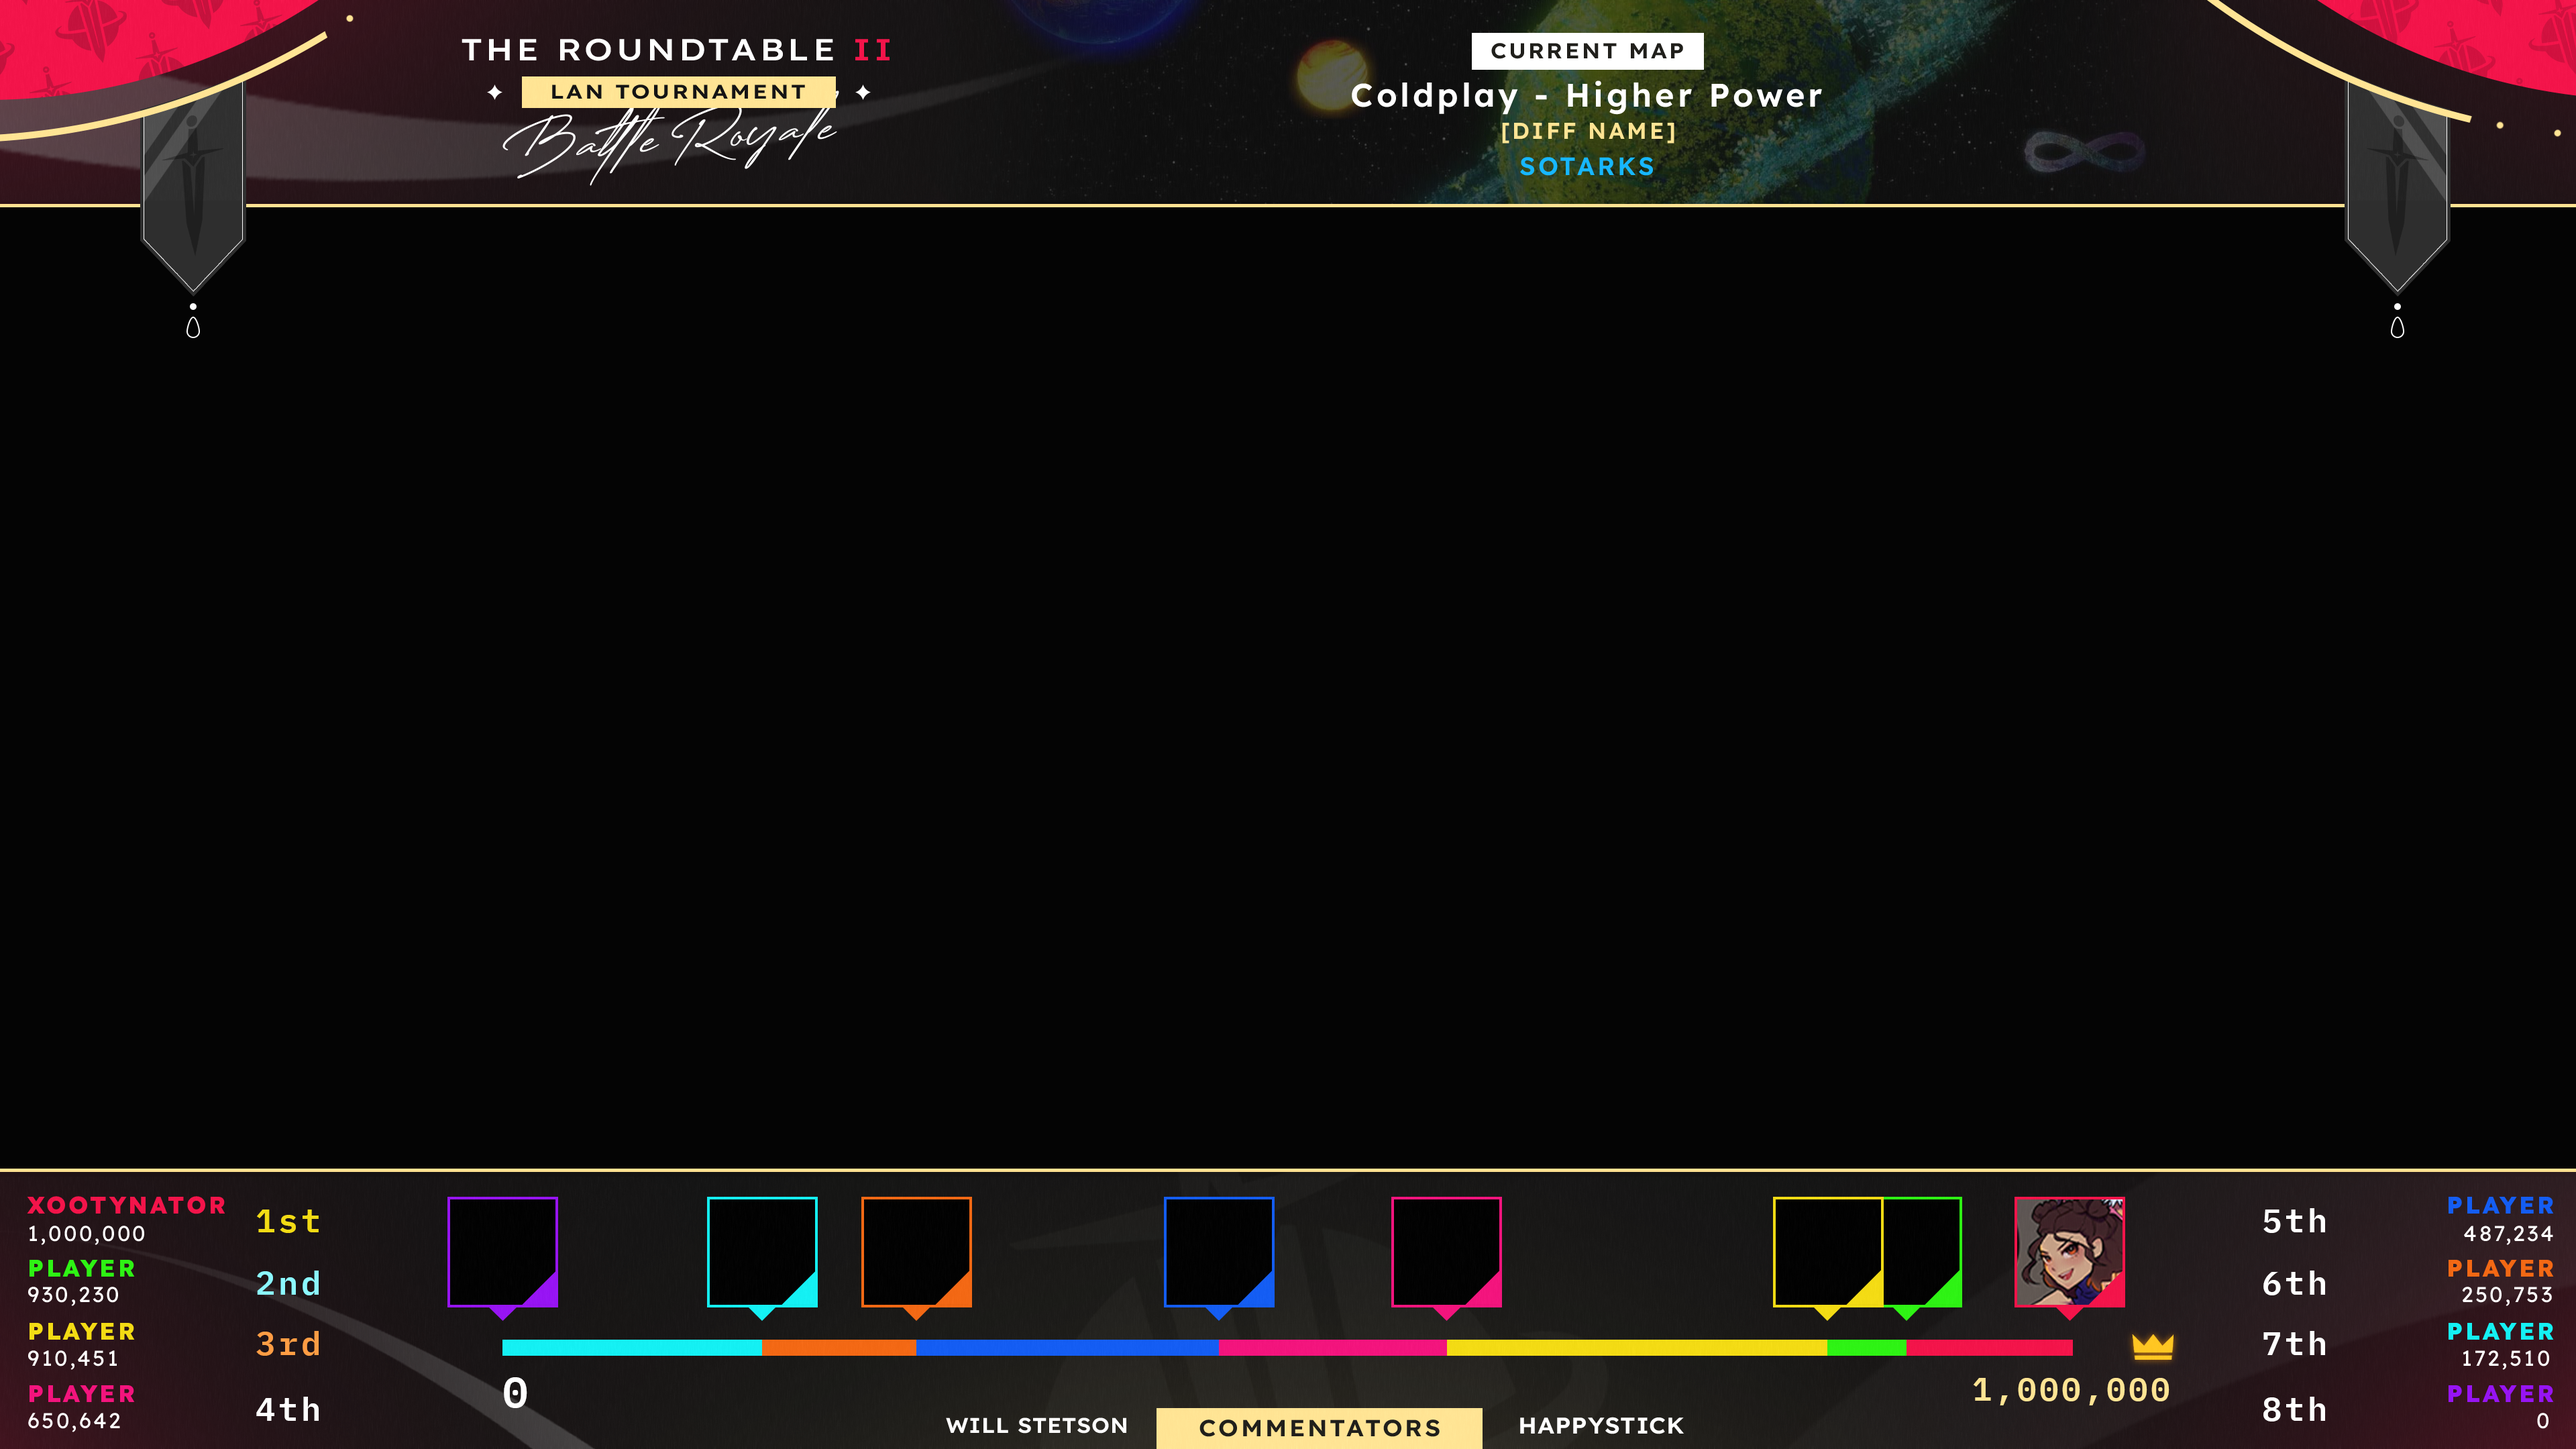
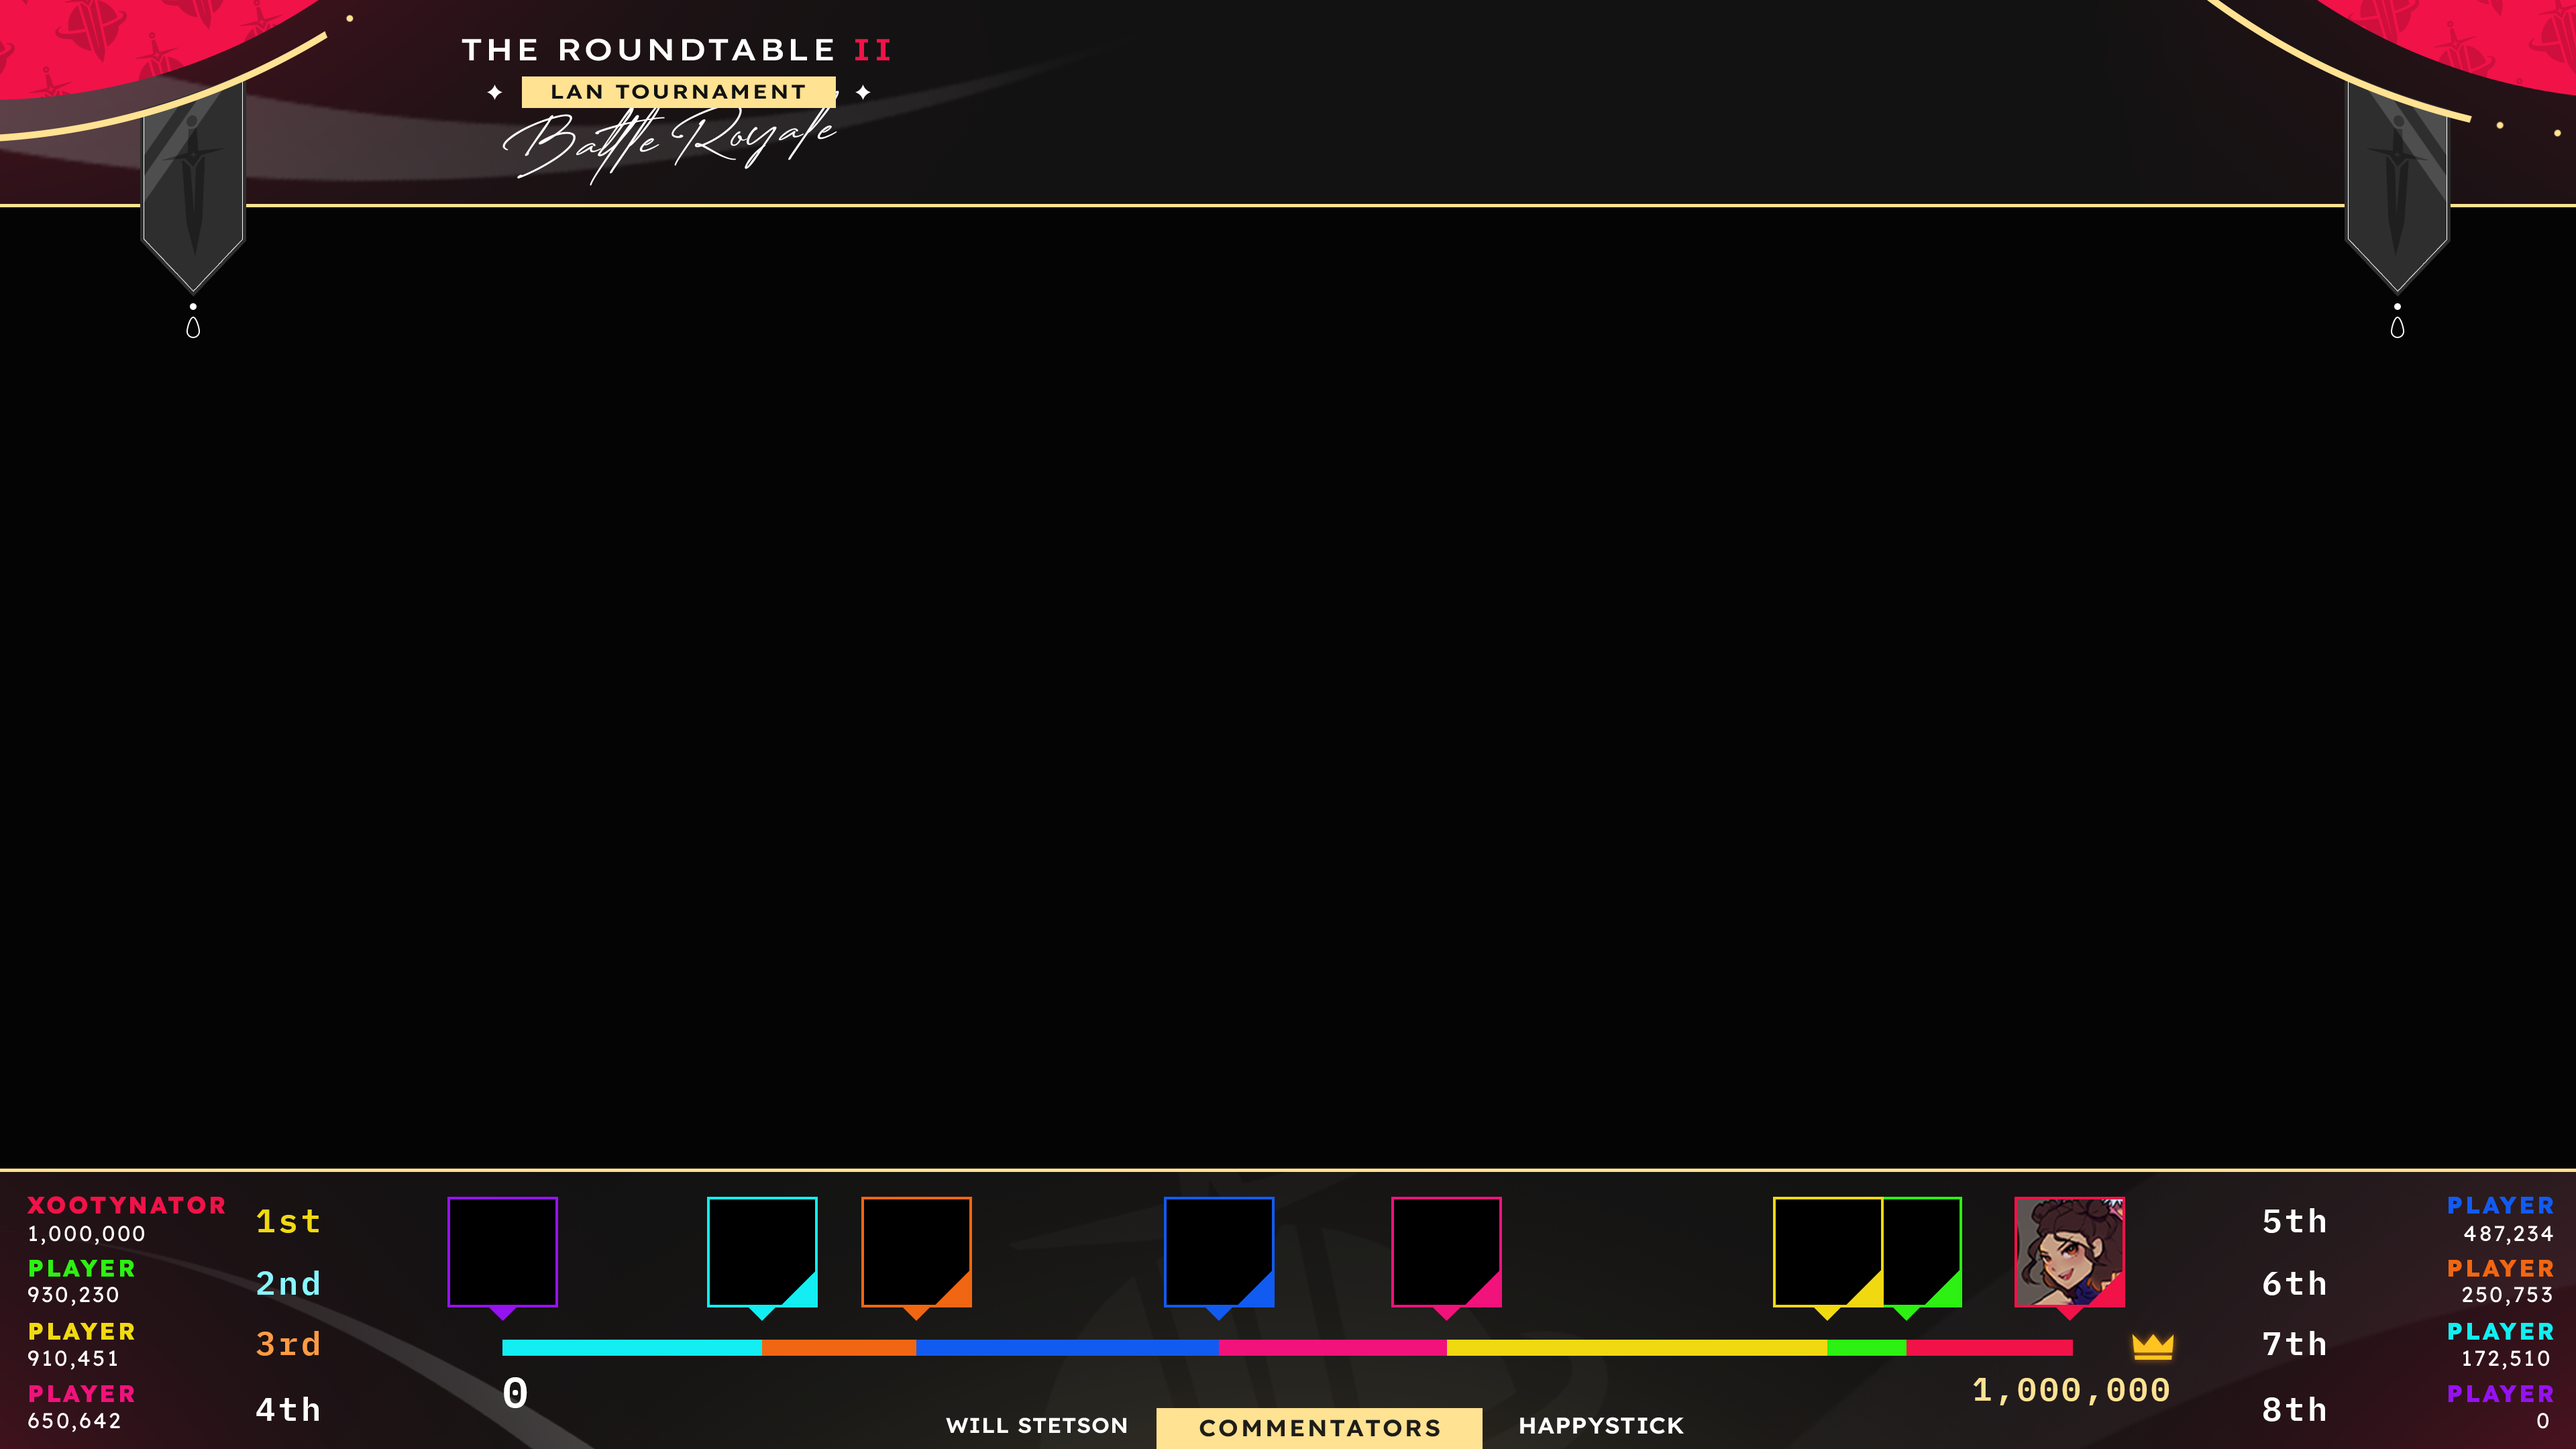
Style Current MAp

diff --git a/br-gameplay/css/style.css b/br-gameplay/css/style.css
@@ -1,6 +1,8 @@
 :root {
     --lightGray: #C2C2C2;
     --lightYellow: #ffe696;
+    --lighterYellow: #ffe292;
+    --blue: #15b5ff;
     --red: #ed144a;
 }
 
@@ -30,7 +32,7 @@
 /* Map Stats */
 #mapStatsLeft { 
     position: absolute; top: 21px; left: 837px;
-    width: 160px;
+    width: 145px;
 }
 #mapStatsRight {
     position: absolute; top: 21px; right: 362px;
@@ -77,4 +79,37 @@
     font-family: 'Lexend'; font-size: 24px;
     line-height: 31px;
     text-align: center;
+}
+
+/* Current Map */
+#currentMap {
+    position: absolute; left: 982px; top: 21px; width: 403px;
+    font-family: 'Lexend';
+}
+#currentMapText {
+    position: absolute; top: 4px; left: 50%; transform: translateX(-50%);
+    font-size: 20px;
+    background-color: white;
+    padding: 0.5px 12px;
+}
+#currentSongArtistandName {
+    position: absolute; top: 36px; left: 50%; transform: translateX(-50%);
+    color: white;
+    font-size: 23px;
+    width: max-content;
+    letter-spacing: 3px;
+}
+#currentMapDifficulty {
+    position: absolute; top: 65px; left: 50%; transform: translateX(-50%);
+    color: var(--lighterYellow);
+    font-size: 17px;
+    letter-spacing: 1.2px;
+    width: max-content;
+}
+#currentMapSetCreator {
+    position: absolute; top: 91px; left: 50%; transform: translateX(-50%);
+    color: var(--blue);
+    font-size: 18px;
+    letter-spacing: 2px;
+    width: max-content;
 }

diff --git a/br-gameplay/index.html b/br-gameplay/index.html
@@ -16,9 +16,9 @@
         <!-- Top Section-->
         <section id="topSection">
             <!-- Background -->
-            <section id="topBackground">
+            <!-- <section id="topBackground">
                 <div id="topBackgroundOverlay"></div>
-            </section>
+            </section> -->
             <!-- Map Stats Left -->
             <section id="mapStatsLeft">
                 <div class="topLineStatBox" id="ARStat">
@@ -30,6 +30,13 @@
                     <div class="mapStatsTexts mapStatsNumber">10.7</div>
                 </div>
                 <div id="SRStat">5.67*</div>
+            </section>
+            <!-- Current Map Section -->
+            <section id="currentMap">
+                <div id="currentMapText">CURRENT MAP</div>
+                <div id="currentSongArtistandName">Coldplay - Higher Power</div>
+                <div id="currentMapDifficulty">[DIFF NAME]</div>
+                <div id="currentMapSetCreator">SOTARKS</div>
             </section>
             <!-- Map Stats Right -->
             <section id="mapStatsRight">
